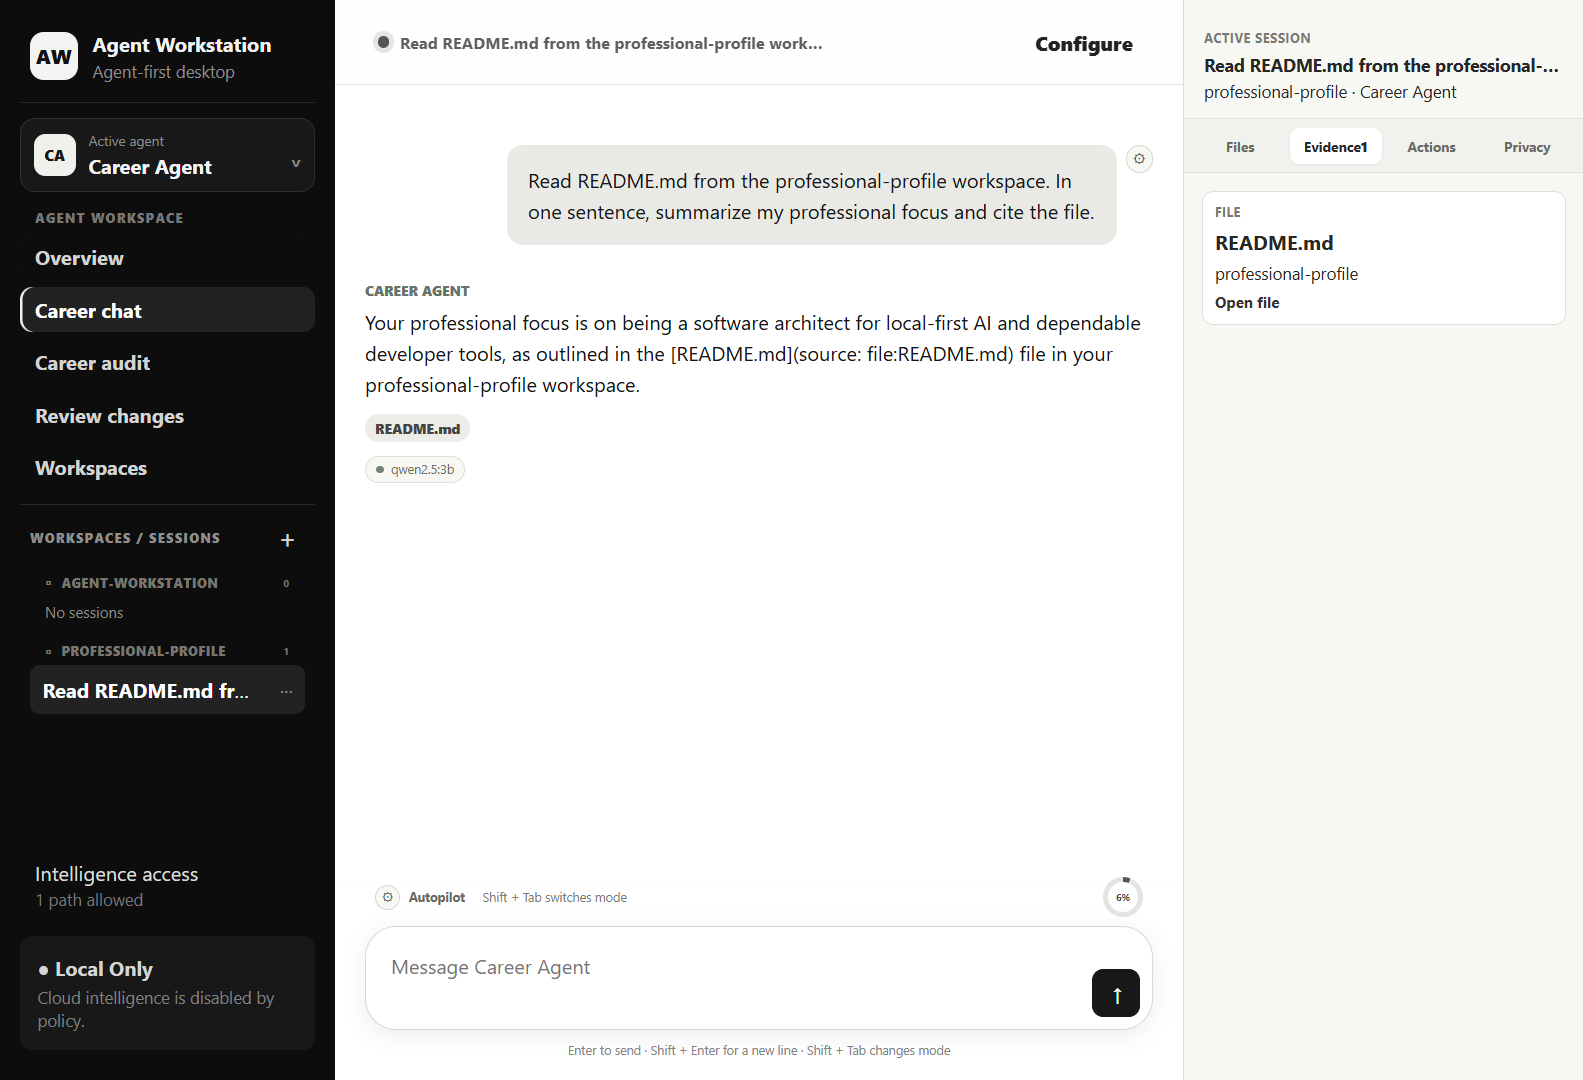
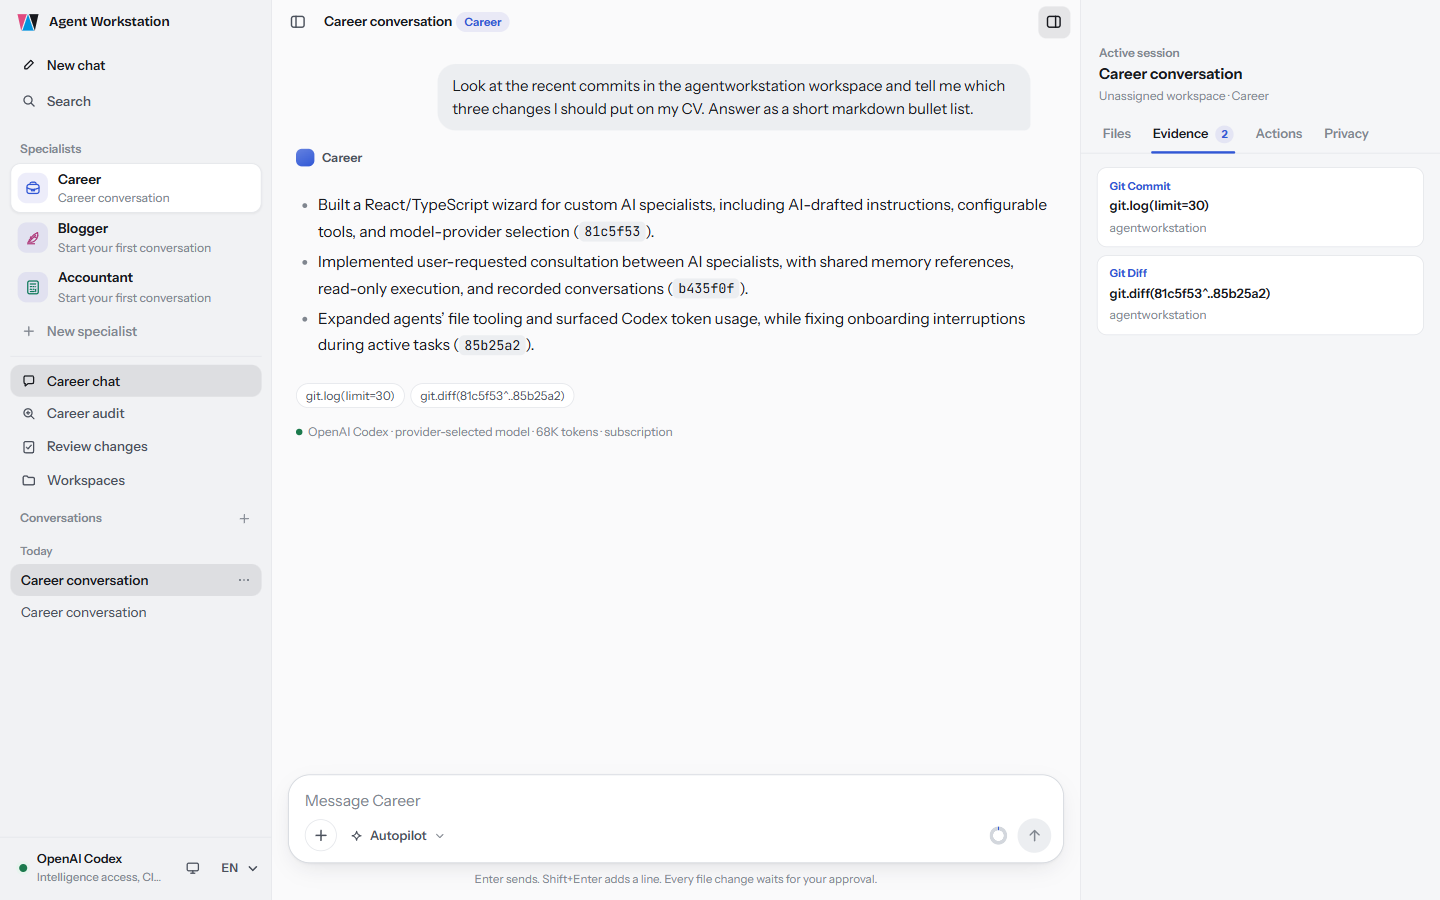
docs: refresh README screenshots from the current app
All product tour screenshots are recaptured from the current desktop app,
using OpenAI Codex on this repository and a fictional demo profile, so no
personal data appears. Adds the specialist profile dialog, describes the new
chat start screen accurately, and replaces the stale 0.1.0 version badge
with the latest release badge.

diff --git a/README.md b/README.md
@@ -6,7 +6,7 @@
 
 ### A local-first hub where specialized AI agents work with real repositories, evidence, and human oversight.
 
-[![Version](https://img.shields.io/badge/version-0.1.0-3b82f6?style=for-the-badge)](./package.json)
+[![Release](https://img.shields.io/github/v/release/edgeetech/agentworkstation?style=for-the-badge&color=3b82f6)](https://github.com/edgeetech/agentworkstation/releases/latest)
 [![CI](https://img.shields.io/github/actions/workflow/status/edgeetech/agentworkstation/ci.yml?branch=main&style=for-the-badge&label=CI)](https://github.com/edgeetech/agentworkstation/actions/workflows/ci.yml)
 [![Windows](https://img.shields.io/badge/Windows-MVP-111827?style=for-the-badge&logo=windows11)](#-install-and-run)
 [![Node](https://img.shields.io/badge/Node-20%2B-22c55e?style=for-the-badge&logo=node.js&logoColor=white)](https://nodejs.org)
@@ -141,7 +141,7 @@ one-click choices; EdgeeTech never bills you.
   </tr>
 </table>
 
-<sub>Captured from the desktop app against a local <code>qwen2.5:3b</code> Ollama model reading this repository.</sub>
+<sub>Captured from the desktop app with OpenAI Codex reading this repository and a demo profile.</sub>
 
 ### Ask about real work, not an isolated prompt
 
@@ -150,9 +150,9 @@ tools. Every response keeps the resolved model and source references visible.
 
 <div align="center">
 
-[![Career Agent chat grounded in a registered README file](./docs/images/career-agent-chat.png)](./docs/images/career-agent-chat.png)
+[![Career Agent chat grounded in the Git history of a registered workspace](./docs/images/career-agent-chat.png)](./docs/images/career-agent-chat.png)
 
-<sub>Real local Ollama response using <code>qwen2.5:3b</code>, with the source file shown in the Evidence inspector. <a href="./docs/images/career-agent-chat.png">Click to enlarge</a>.</sub>
+<sub>Real OpenAI Codex response, with the Git evidence it used shown in the Evidence panel. <a href="./docs/images/career-agent-chat.png">Click to enlarge</a>.</sub>
 
 </div>
 
@@ -161,11 +161,11 @@ tools. Every response keeps the resolved model and source references visible.
 <table>
   <tr>
     <td width="50%" valign="top">
-      <a href="./docs/images/new-session-composer.png"><img src="./docs/images/new-session-composer.png" alt="New Career Agent session composer showing workspace, agent, intelligence, permissions, isolation, and quick actions"></a>
-      <br><strong>Start with explicit context</strong><br>
-      Bind a persistent session to a workspace and agent. Auto intelligence,
-      execution policy, permissions, isolation, and declarative quick actions
-      are visible before the first prompt.
+      <a href="./docs/images/new-session-composer.png"><img src="./docs/images/new-session-composer.png" alt="New Career conversation with suggested starting tasks and the approval notice"></a>
+      <br><strong>Start from a clear brief</strong><br>
+      Each specialist opens with its own starting tasks and a reminder that it
+      can read your registered workspaces, but nothing is written until you
+      approve the exact diff.
     </td>
     <td width="50%" valign="top">
       <a href="./docs/images/evidence-first-audit.png"><img src="./docs/images/evidence-first-audit.png" alt="Career Audit with structured file, memory, Git commit, and Git status evidence"></a>
@@ -175,11 +175,17 @@ tools. Every response keeps the resolved model and source references visible.
     </td>
   </tr>
   <tr>
-    <td colspan="2" valign="top">
+    <td width="50%" valign="top">
       <a href="./docs/images/human-approval.png"><img src="./docs/images/human-approval.png" alt="Proposed profile update shown as an exact diff with approve and reject controls"></a>
       <br><strong>Review the diff; keep control of the write</strong><br>
       The model proposes. Agent Workstation creates a PendingAction. Only the
       application can write after explicit human approval.
+    </td>
+    <td width="50%" valign="top">
+      <a href="./docs/images/specialist-profile.png"><img src="./docs/images/specialist-profile.png" alt="Specialist profile dialog editing a specialist's name and title with a live sidebar preview"></a>
+      <br><strong>Make each specialist yours</strong><br>
+      Rename any specialist and give it a title, such as "Sharp accountant".
+      The sidebar preview updates as you type.
     </td>
   </tr>
 </table>
